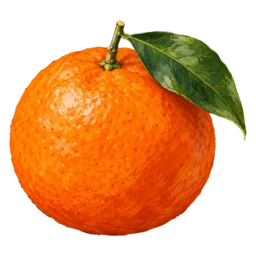
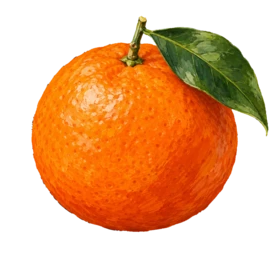
fix(branding): optically center the mandarin across Android assets

diff --git a/docs/releases/0.1.3.md b/docs/releases/0.1.3.md
@@ -4,7 +4,7 @@
 - The home screen shows subscription time and remaining traffic below the service name, using the subscription's metadata.
 - Added a saved server display order per subscription and group. Hold a server and choose **Move up** or **Move down**; use **My order** in the sort menu to return to it.
 - Server names can use two lines, protocol badges wrap as needed, and selecting a server no longer shrinks its title.
-- Updated the app icon, home screen, VPN button and widget with the painted mandarin from the Mikan panel.
+- Updated the app icon, home screen, VPN button and widget with the painted mandarin from the Mikan panel, with optical centering across all assets.
 - Added a server latency method in **Settings → Network**: a direct TCP connection to the server, or an HTTP check through each proxy. Through-server checks require that subscription to be running; TCP-only tests show N/A for UDP-only protocols.
 
 Install the signed APK over Mikan **0.1.2** to keep your subscriptions and settings. This version is being prepared locally and has not been published.
@@ -17,7 +17,7 @@ Install the signed APK over Mikan **0.1.2** to keep your subscriptions and setti
 - Под названием сервиса на главной видны срок подписки и остаток трафика, если подписка передаёт эти данные.
 - Серверы можно расположить в своём порядке: удерживайте сервер → **«Переместить выше»** или **«Переместить ниже»**. Порядок сохраняется отдельно для каждой подписки и группы; в меню сортировки есть **«Мой порядок»**.
 - Названия серверов занимают до двух строк, метки протоколов переносятся целиком, а выбор сервера больше не сужает его название.
-- Иконка приложения, главная, кнопка VPN и виджет используют рисованный мандарин из панели Mikan.
+- Иконка приложения, главная, кнопка VPN и виджет используют рисованный мандарин из панели Mikan с единым оптическим выравниванием.
 - В **«Настройки → Сеть»** можно выбрать проверку **«До сервера (TCP)»** или **«Через сервер (HTTP)»**. Для второго способа подписка должна быть подключена; у протоколов только на UDP проверка TCP показывает «Н/Д».
 
 Подписанный APK можно установить поверх Mikan **0.1.2**: подписки и настройки сохранятся. Версия пока подготовлена локально и не опубликована.
